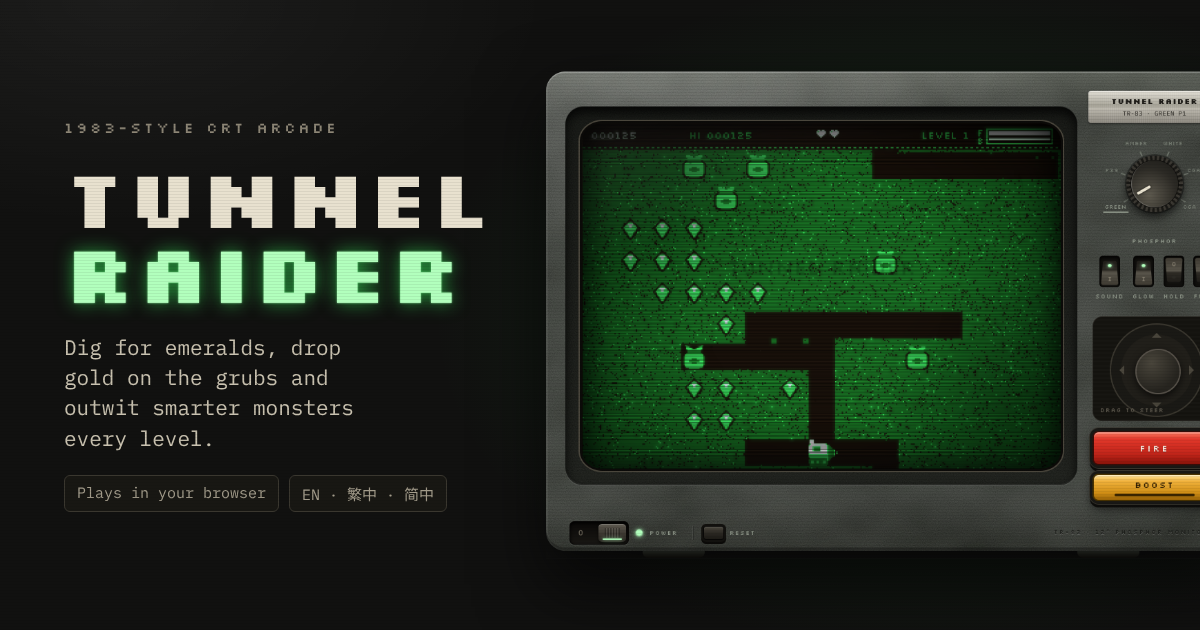
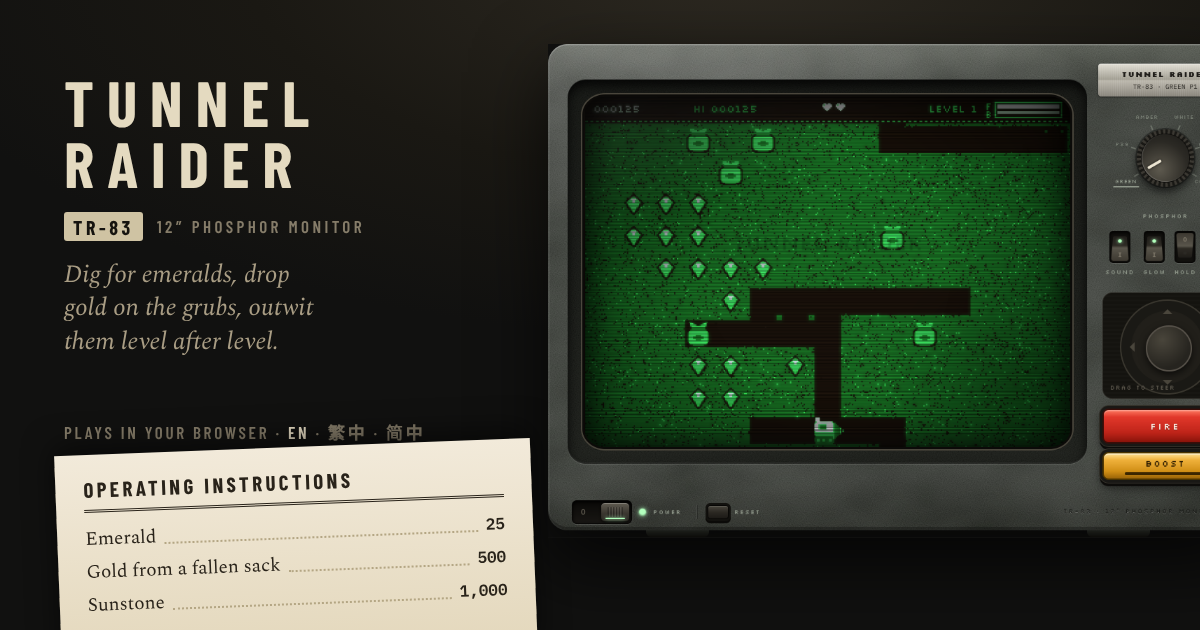
style: restyle everything outside the CRT as a 1983 software manual
- Header: a printed maker's label (TUNNEL RAIDER, TR-83 tag) with an
  italic serif tagline, instead of the glowing pixel title
- How to play: a paper pull-tab under the set unfolds a printed
  "Operating Instructions" leaflet with numbered sections, dot-leader
  scoring and controls, beige keycaps and a source-code footer
- Language switch and GitHub link as printed text links
- Desk lit by a soft lamp glow
- New share image in the same style, also shown at the top of the README
- Fix: the English rockjaw line said "seam" instead of "level"

Claude-Session: https://claude.ai/code/session_01KVgNwscUD74ty6NcmSq3KY

diff --git a/index.html b/index.html
@@ -44,7 +44,7 @@ img{max-width:100%}
 <title>Tunnel Raider</title>
 <link rel="preconnect" href="https://fonts.googleapis.com">
 <link rel="preconnect" href="https://fonts.gstatic.com" crossorigin>
-<link rel="stylesheet" href="https://fonts.googleapis.com/css2?family=Silkscreen:wght@400;700&family=Noto+Sans+TC:wght@400;700&family=Noto+Sans+SC:wght@400;700&family=IBM+Plex+Mono:wght@400;500;600&display=swap">
+<link rel="stylesheet" href="https://fonts.googleapis.com/css2?family=Silkscreen:wght@400;700&family=Noto+Sans+TC:wght@400;700&family=Noto+Sans+SC:wght@400;700&family=IBM+Plex+Mono:wght@400;500;600&family=Barlow+Condensed:wght@600;700&family=Spectral:ital,wght@0,400;0,600;1,400&display=swap">
 <style>
 /* Layout: a 1983 colour monitor on a dark desk — bezel-framed CRT, a row of front-panel switches, reference cards beneath. Single dark look by design; --phos/--phos2 retint to the chosen display. */
 :root{
@@ -60,21 +60,28 @@ img{max-width:100%}
   --muted:#8d8676;       /* secondary text */
   --phos:#55ffff;        /* active phosphor colour (set by display mode) */
   --phos2:#ff55ff;       /* second phosphor colour */
+  --paper:#ede4cd;       /* manual paper */
+  --paper-ink:#29231a;   /* manual print */
+  --paper-mute:#6f6553;  /* secondary print */
+  --paper-rule:#b4a684;  /* rules and dot leaders */
+  --print:"Barlow Condensed", "Noto Sans TC", "Noto Sans SC", "Arial Narrow", sans-serif;
+  --book:"Spectral", "Noto Sans TC", "Noto Sans SC", Georgia, serif;
   --display:"Silkscreen", "Noto Sans TC", "Noto Sans SC", "Courier New", monospace;
   --body:"IBM Plex Mono", "Noto Sans TC", "Noto Sans SC", ui-monospace, "SFMono-Regular", Menlo, monospace;
   color-scheme:dark;
 }
 html,body{background:var(--desk);color:var(--label)}
+body{background:radial-gradient(110% 60% at 50% -8%, #2b2720 0, #191712 42%, var(--desk) 78%) var(--desk) no-repeat}
 /* iOS: no double-tap zoom (pinch zoom still works), no text selection, callouts or grey tap flashes on the controls */
 html,body,.tv,button,.manual-bar,.netbadge{touch-action:manipulation}
 .tv,.manual-bar,.netbadge{-webkit-user-select:none;user-select:none;-webkit-touch-callout:none}
 button,.stickzone,.dial,.tv{-webkit-tap-highlight-color:transparent}
 body{font-family:var(--body);font-size:14px;line-height:1.55}
 .wrap{max-width:1000px;margin:0 auto;padding-left:max(16px, env(safe-area-inset-left, 0px));padding-right:max(16px, env(safe-area-inset-right, 0px));padding-block:20px 40px;display:grid;gap:18px}
-header{display:flex;flex-wrap:wrap;align-items:flex-end;justify-content:space-between;gap:8px 24px}
-h1{font-family:var(--display);font-weight:700;font-size:clamp(26px,5vw,40px);line-height:1;margin:0;letter-spacing:.03em;color:var(--label);text-wrap:balance}
-h1 span{color:var(--phos);text-shadow:0 0 12px color-mix(in srgb, var(--phos) 60%, transparent)}
-.tag{margin:0;color:var(--muted);font-size:13px;max-width:46ch}
+header{display:flex;flex-wrap:wrap;align-items:baseline;gap:6px 14px;padding-inline:2px}
+h1{font-family:var(--print);font-weight:700;font-size:21px;line-height:1;margin:0;letter-spacing:.34em;text-transform:uppercase;color:#ddd3ba}
+.mk-model{font-family:var(--print);font-weight:700;font-size:12px;letter-spacing:.18em;color:#16140f;background:#cfc3a3;padding:2px 6px 1px;border-radius:2px;align-self:center}
+.tag{margin:0 0 0 auto;font-family:var(--book);font-style:italic;font-size:15px;color:#978c76;max-width:50ch}
 
 /* the monitor */
 .monitor{background:linear-gradient(180deg,var(--plastic-hi),var(--plastic) 12%,var(--plastic) 88%,var(--plastic-lo));border-radius:22px;padding:clamp(12px,3vw,30px) clamp(12px,3vw,30px) 14px;box-shadow:0 18px 40px rgba(0,0,0,.6), inset 0 1px 0 rgba(255,255,255,.08)}
@@ -296,7 +303,7 @@ button:focus-visible{outline:2px solid var(--phos);outline-offset:2px}
 [data-full][data-layout="phone-portrait"] .tv-face,[data-full][data-layout="tablet-portrait"] .tv-face{grid-template-columns:minmax(0,1fr);grid-template-areas:"screen" "pad"}
 [data-full][data-layout="phone-portrait"] .tube-surround,[data-full][data-layout="tablet-portrait"] .tube-surround{width:100%}
 [data-full][data-layout="phone-portrait"] .pad,[data-full][data-layout="tablet-portrait"] .pad{display:flex;flex-direction:row;width:100%}
-.rotate-hint{display:none;margin:0;text-align:center;color:var(--muted);font-size:12px}
+.rotate-hint{display:none;order:5;margin:0;text-align:center;font-family:var(--book);font-style:italic;font-size:14px;color:#8d8676}
 
 /* ---- layouts chosen by the screen detector (data-layout on <html>) ---- */
 [data-layout="phone-portrait"] .tag{display:none}
@@ -430,10 +437,58 @@ table{border-collapse:collapse;width:100%;font-variant-numeric:tabular-nums}
 td{padding:4px 0;border-bottom:1px dashed #2b2924;vertical-align:top}
 td:last-child{text-align:right;color:var(--phos);white-space:nowrap;padding-left:12px}
 tr:last-child td{border-bottom:0}
-kbd{font-family:var(--body);font-size:12px;background:var(--desk);border:1px solid #2b2924;border-bottom-width:2px;border-radius:3px;padding:0 5px;color:var(--label)}
+kbd{font-family:var(--body);font-size:11px;font-weight:600;line-height:1.5;color:#2a241b;background:linear-gradient(180deg,#fbf7ec,#ddd2b7);border:1px solid #978a71;border-bottom-width:3px;border-radius:4px;padding:0 6px;box-shadow:0 1px 1px rgba(0,0,0,.18);white-space:nowrap}
 .keys td:last-child{color:var(--label)}
 .note{color:var(--muted);font-size:12px;margin:10px 0 0}
 @media (prefers-reduced-motion:reduce){.blink{animation:none}}
+
+/* ---------- outside the set: a 1983 software manual ---------- */
+.manual-bar{order:3;display:flex;flex-wrap:wrap;align-items:flex-start;justify-content:space-between;gap:12px 18px;margin-top:-18px;padding-inline:clamp(10px,3vw,28px)}
+.manual-btn{position:relative;z-index:1;display:inline-flex;align-items:center;gap:9px;cursor:pointer;border:0;border-radius:0 0 7px 7px;padding:14px 18px 10px;
+  font-family:var(--print);font-weight:700;font-size:14px;letter-spacing:.2em;text-transform:uppercase;color:var(--paper-ink);
+  background:var(--grain),linear-gradient(180deg,#d9cfb5,var(--paper) 30%);background-size:160px 160px,auto;background-blend-mode:multiply,normal;
+  box-shadow:0 8px 16px rgba(0,0,0,.45),inset 0 6px 6px -4px rgba(0,0,0,.35)}
+.manual-btn:hover{background-color:#f4ecd7}
+.manual-btn .chev{color:var(--paper-mute);font-size:12px;transition:transform .2s}
+.manual-btn[aria-expanded="true"] .chev{transform:rotate(180deg)}
+.manual-btn:focus-visible,.lang button:focus-visible,.gh-link:focus-visible,.man-foot a:focus-visible{outline:2px solid var(--phos);outline-offset:3px}
+.manual-bar .bar-right{display:flex;flex-wrap:wrap;align-items:center;gap:6px 22px;padding-top:12px}
+.lang{display:flex;align-items:center;border:0;border-radius:0;overflow:visible;background:none}
+.lang button,.lang button+button{font-family:var(--print);font-weight:600;font-size:15px;letter-spacing:.14em;color:#857c69;background:none;border:0;padding:4px 2px;cursor:pointer}
+.lang button+button::before{content:"·";color:#4f4a40;margin:0 10px 0 8px}
+.lang button[aria-pressed="true"]{background:none;color:#e6dcc3;text-decoration:underline;text-decoration-color:var(--phos);text-decoration-thickness:2px;text-underline-offset:6px}
+.lang button:hover{color:#cfc5ad}
+.gh-link{display:inline-flex;align-items:center;gap:7px;font-family:var(--print);font-weight:600;font-size:15px;letter-spacing:.14em;text-transform:uppercase;color:#857c69;text-decoration:none;background:none;border:0;padding:4px 0}
+.gh-link:hover{color:#e6dcc3}
+.gh-link svg{width:15px;height:15px}
+.install-btn{font-family:var(--print)!important;font-weight:600!important;font-size:15px!important;letter-spacing:.14em!important;text-transform:uppercase;color:var(--phos)!important;background:none!important;border:0!important;padding:4px 0!important}
+
+.manual{order:4;display:block;position:relative;margin:-4px clamp(4px,1.5vw,14px) 0;padding:30px clamp(18px,4.5vw,48px) 22px;color:var(--paper-ink);
+  background:var(--grain),linear-gradient(180deg,#f2eada,#e6dbc0);background-size:160px 160px,auto;background-blend-mode:multiply,normal;
+  border-radius:1px;box-shadow:0 22px 44px rgba(0,0,0,.55),0 2px 0 #c9bc9b;transform:rotate(-.35deg)}
+.man-head{display:flex;flex-wrap:wrap;align-items:baseline;justify-content:space-between;gap:4px 18px;padding-bottom:10px;margin-bottom:20px;border-bottom:3px double var(--paper-ink)}
+.manual h2{margin:0;font-family:var(--print);font-weight:700;font-size:clamp(22px,3.6vw,32px);letter-spacing:.14em;text-transform:uppercase;line-height:1.05}
+.man-model{font-family:var(--print);font-weight:600;font-size:13px;letter-spacing:.18em;text-transform:uppercase;color:var(--paper-mute)}
+.man-cols{columns:2 320px;column-gap:44px;column-rule:1px solid color-mix(in srgb, var(--paper-rule) 60%, transparent)}
+.man-sec{break-inside:avoid;margin:0 0 22px}
+.man-sec h3{display:flex;align-items:center;gap:10px;margin:0 0 9px;font-family:var(--print);font-weight:700;font-size:16px;letter-spacing:.16em;text-transform:uppercase;color:var(--paper-ink)}
+.man-sec .num{flex:none;display:grid;place-items:center;width:21px;height:21px;border-radius:50%;background:var(--paper-ink);color:var(--paper);font-size:12px;letter-spacing:0}
+.man-sec p{margin:0;font-family:var(--book);font-size:15.5px;line-height:1.58;color:#352e23;hyphens:auto;text-wrap:pretty}
+.man-sec p i{font-style:italic}
+.leaders{list-style:none;margin:0;padding:0;font-family:var(--book);font-size:15.5px;color:#352e23}
+.leaders li{display:flex;align-items:baseline;gap:6px;padding:3px 0}
+.leaders li > span:first-child{min-width:0;flex:0 1 auto}
+.leaders i{flex:1 1 18px;min-width:18px;align-self:flex-end;margin-bottom:6px;border-bottom:2px dotted var(--paper-rule)}
+.leaders b{flex:none;font-family:var(--body);font-weight:600;font-size:13px;font-variant-numeric:tabular-nums;white-space:nowrap;color:var(--paper-ink)}
+.leaders .kv{flex:0 1 auto;max-width:62%;text-align:right;font-size:13.5px;line-height:1.9}
+.man-foot{margin-top:4px;padding-top:12px;border-top:1px solid var(--paper-rule)}
+.man-foot a{display:inline-flex;flex-wrap:wrap;align-items:center;gap:6px 9px;font-family:var(--print);font-weight:700;font-size:14px;letter-spacing:.16em;text-transform:uppercase;color:var(--paper-ink);text-decoration:none}
+.man-foot a svg{width:16px;height:16px}
+.man-foot .url{font-family:var(--body);font-weight:500;font-size:12.5px;letter-spacing:0;text-transform:none;color:var(--paper-mute)}
+.man-foot a:hover .url{text-decoration:underline}
+[data-layout="phone-portrait"] .manual-bar{margin-top:0}
+[data-layout="phone-portrait"] .manual{transform:none}
+@media (prefers-reduced-motion:reduce){.manual-btn .chev{transition:none}}
 </style>
 <script>
 /* Screen detector. Picks a layout from the real viewport and input type, so it fits any phone or tablet
@@ -461,7 +516,8 @@ kbd{font-family:var(--body);font-size:12px;background:var(--desk);border:1px sol
 
 <div class="wrap">
   <header>
-    <h1>Tunnel <span>Raider</span></h1>
+    <h1>Tunnel Raider</h1>
+    <span class="mk-model">TR-83</span>
     <p class="tag" data-i18n="tag">Tunnel through the mine, scoop up emeralds and drop sacks of gold on the grubs.</p>
   </header>
 
@@ -515,47 +571,56 @@ kbd{font-family:var(--body);font-size:12px;background:var(--desk);border:1px sol
 
 
   <div class="manual-bar">
-    <button type="button" class="manual-btn" id="manualBtn" aria-expanded="false" aria-controls="manual"><span class="chev" aria-hidden="true">▸</span><span id="manualLbl">How to play</span></button>
-    <div class="bar-right">
-      <a class="gh-link" href="https://github.com/wiiiimm/tunnel-raider" target="_blank" rel="noopener" aria-label="Tunnel Raider on GitHub (opens in a new tab)"><svg viewBox="0 0 16 16" width="16" height="16" aria-hidden="true"><path fill="currentColor" d="M8 0C3.58 0 0 3.58 0 8c0 3.54 2.29 6.53 5.47 7.59.4.07.55-.17.55-.38 0-.19-.01-.82-.01-1.49-2.01.37-2.53-.49-2.69-.94-.09-.23-.48-.94-.82-1.13-.28-.15-.68-.52-.01-.53.63-.01 1.08.58 1.23.82.72 1.21 1.87.87 2.33.66.07-.52.28-.87.51-1.07-1.78-.2-3.64-.89-3.64-3.95 0-.87.31-1.59.82-2.15-.08-.2-.36-1.02.08-2.12 0 0 .67-.21 2.2.82.64-.18 1.32-.27 2-.27.68 0 1.36.09 2 .27 1.53-1.04 2.2-.82 2.2-.82.44 1.1.16 1.92.08 2.12.51.56.82 1.27.82 2.15 0 3.07-1.87 3.75-3.65 3.95.29.25.54.73.54 1.48 0 1.07-.01 1.93-.01 2.2 0 .21.15.46.55.38A8.013 8.013 0 0016 8c0-4.42-3.58-8-8-8z"/></svg><span>GitHub</span></a>
+    <button type="button" class="manual-btn" id="manualBtn" aria-expanded="false" aria-controls="manual"><span class="chev" aria-hidden="true">▾</span><span id="manualLbl">Instructions</span></button>
+    <nav class="bar-right" aria-label="Language and source code">
       <div class="lang" role="group" aria-label="Language" id="langSeg">
         <button type="button" data-lang="en" aria-pressed="true">EN</button>
         <button type="button" data-lang="zh-hant" aria-pressed="false" lang="zh-Hant">繁中</button>
         <button type="button" data-lang="zh-hans" aria-pressed="false" lang="zh-Hans">简中</button>
       </div>
-    </div>
+      <a class="gh-link" href="https://github.com/wiiiimm/tunnel-raider" target="_blank" rel="noopener" aria-label="Tunnel Raider on GitHub (opens in a new tab)"><svg viewBox="0 0 16 16" width="16" height="16" aria-hidden="true"><path fill="currentColor" d="M8 0C3.58 0 0 3.58 0 8c0 3.54 2.29 6.53 5.47 7.59.4.07.55-.17.55-.38 0-.19-.01-.82-.01-1.49-2.01.37-2.53-.49-2.69-.94-.09-.23-.48-.94-.82-1.13-.28-.15-.68-.52-.01-.53.63-.01 1.08.58 1.23.82.72 1.21 1.87.87 2.33.66.07-.52.28-.87.51-1.07-1.78-.2-3.64-.89-3.64-3.95 0-.87.31-1.59.82-2.15-.08-.2-.36-1.02.08-2.12 0 0 .67-.21 2.2.82.64-.18 1.32-.27 2-.27.68 0 1.36.09 2 .27 1.53-1.04 2.2-.82 2.2-.82.44 1.1.16 1.92.08 2.12.51.56.82 1.27.82 2.15 0 3.07-1.87 3.75-3.65 3.95.29.25.54.73.54 1.48 0 1.07-.01 1.93-.01 2.2 0 .21.15.46.55.38A8.013 8.013 0 0016 8c0-4.42-3.58-8-8-8z"/></svg><span>GitHub</span></a>
+    </nav>
   </div>
-  <div class="below" id="manual" hidden>
-    <div class="card">
-      <h3 data-i18n="howH">HOW IT PLAYS</h3>
-      <table>
-        <tr><td data-i18n="r1"></td><td>25</td></tr>
-        <tr><td data-i18n="r2"></td><td>+250</td></tr>
-        <tr><td data-i18n="r3"></td><td>500</td></tr>
-        <tr><td data-i18n="r4"></td><td>250</td></tr>
-        <tr><td data-i18n="r5"></td><td>500</td></tr>
-        <tr><td data-i18n="r6"></td><td>1,000</td></tr>
-        <tr><td data-i18n="r7"></td><td>200 · 400 · 800 · 1,600</td></tr>
-        <tr><td data-i18n="r8"></td><td data-i18n="r8v"></td></tr>
-      </table>
-      <p class="note" data-i18n="howNote"></p>
+  <section class="below manual" id="manual" hidden aria-labelledby="manH">
+    <div class="man-head">
+      <h2 id="manH" data-i18n="manTitle">Operating Instructions</h2>
+      <span class="man-model" data-i18n="model">Model TR-83 · 12″ phosphor monitor</span>
     </div>
-    <div class="card">
-      <h3 data-i18n="ctlH">CONTROLS</h3>
-      <table class="keys">
-        <tr><td data-i18n="k1"></td><td data-i18n="k1v"></td></tr>
-        <tr><td data-i18n="k2"></td><td data-i18n="k2v"></td></tr>
-        <tr><td data-i18n="k3"></td><td data-i18n="k3v"></td></tr>
-        <tr><td data-i18n="k4"></td><td data-i18n="k4v"></td></tr>
-        <tr><td data-i18n="k5"></td><td><kbd>M</kbd></td></tr>
-        <tr><td data-i18n="k6"></td><td data-i18n="k6v"></td></tr>
-        <tr><td data-i18n="k7"></td><td><kbd>Enter</kbd></td></tr>
-        <tr><td data-i18n="k9"></td><td data-i18n="k9v"></td></tr>
-        <tr><td data-i18n="k8"></td><td data-i18n="k8v"></td></tr>
-      </table>
-      <p class="note" data-i18n="ctlNote"></p>
+    <div class="man-cols">
+      <section class="man-sec"><h3><span class="num">1</span><span data-i18n="howH">How it plays</span></h3>
+        <p data-i18n="howNote"></p>
+      </section>
+      <section class="man-sec"><h3><span class="num">2</span><span data-i18n="secScore">Scoring</span></h3>
+        <ul class="leaders">
+          <li><span data-i18n="r1"></span><i aria-hidden="true"></i><b>25</b></li>
+          <li><span data-i18n="r2"></span><i aria-hidden="true"></i><b>+250</b></li>
+          <li><span data-i18n="r3"></span><i aria-hidden="true"></i><b>500</b></li>
+          <li><span data-i18n="r4"></span><i aria-hidden="true"></i><b>250</b></li>
+          <li><span data-i18n="r5"></span><i aria-hidden="true"></i><b>500</b></li>
+          <li><span data-i18n="r6"></span><i aria-hidden="true"></i><b>1,000</b></li>
+          <li><span data-i18n="r7"></span><i aria-hidden="true"></i><b>200 · 400 · 800 · 1,600</b></li>
+          <li><span data-i18n="r8"></span><i aria-hidden="true"></i><b data-i18n="r8v"></b></li>
+        </ul>
+      </section>
+      <section class="man-sec"><h3><span class="num">3</span><span data-i18n="ctlH">Controls</span></h3>
+        <ul class="leaders keys">
+          <li><span data-i18n="k1"></span><i aria-hidden="true"></i><span class="kv" data-i18n="k1v"></span></li>
+          <li><span data-i18n="k2"></span><i aria-hidden="true"></i><span class="kv" data-i18n="k2v"></span></li>
+          <li><span data-i18n="k9"></span><i aria-hidden="true"></i><span class="kv" data-i18n="k9v"></span></li>
+          <li><span data-i18n="k3"></span><i aria-hidden="true"></i><span class="kv" data-i18n="k3v"></span></li>
+          <li><span data-i18n="k4"></span><i aria-hidden="true"></i><span class="kv" data-i18n="k4v"></span></li>
+          <li><span data-i18n="k5"></span><i aria-hidden="true"></i><span class="kv"><kbd>M</kbd></span></li>
+          <li><span data-i18n="k6"></span><i aria-hidden="true"></i><span class="kv" data-i18n="k6v"></span></li>
+          <li><span data-i18n="k7"></span><i aria-hidden="true"></i><span class="kv"><kbd>Enter</kbd></span></li>
+          <li><span data-i18n="k8"></span><i aria-hidden="true"></i><span class="kv" data-i18n="k8v"></span></li>
+        </ul>
+      </section>
+      <section class="man-sec"><h3><span class="num">4</span><span data-i18n="secMonitor">The monitor</span></h3>
+        <p data-i18n="ctlNote"></p>
+      </section>
     </div>
-  </div>
+    <footer class="man-foot"><a href="https://github.com/wiiiimm/tunnel-raider" target="_blank" rel="noopener"><svg viewBox="0 0 16 16" width="16" height="16" aria-hidden="true"><path fill="currentColor" d="M8 0C3.58 0 0 3.58 0 8c0 3.54 2.29 6.53 5.47 7.59.4.07.55-.17.55-.38 0-.19-.01-.82-.01-1.49-2.01.37-2.53-.49-2.69-.94-.09-.23-.48-.94-.82-1.13-.28-.15-.68-.52-.01-.53.63-.01 1.08.58 1.23.82.72 1.21 1.87.87 2.33.66.07-.52.28-.87.51-1.07-1.78-.2-3.64-.89-3.64-3.95 0-.87.31-1.59.82-2.15-.08-.2-.36-1.02.08-2.12 0 0 .67-.21 2.2.82.64-.18 1.32-.27 2-.27.68 0 1.36.09 2 .27 1.53-1.04 2.2-.82 2.2-.82.44 1.1.16 1.92.08 2.12.51.56.82 1.27.82 2.15 0 3.07-1.87 3.75-3.65 3.95.29.25.54.73.54 1.48 0 1.07-.01 1.93-.01 2.2 0 .21.15.46.55.38A8.013 8.013 0 0016 8c0-4.42-3.58-8-8-8z"/></svg><span data-i18n="src">Source code</span><span class="url">github.com/wiiiimm/tunnel-raider</span></a></footer>
+  </section>
   <div class="netbadge" id="netToast" role="status" aria-live="polite" hidden><span class="nled" aria-hidden="true"></span><span class="nmsg" id="netMsg"></span><button type="button" class="nbtn" id="netBtn" hidden></button></div>
   <button class="exitfull" id="exitFull" type="button" aria-label="Exit full screen">✕</button>
 </div>
@@ -961,10 +1026,10 @@ const I18N = {
   en: {
     tag: 'Tunnel through the mine, scoop up emeralds and drop sacks of gold on the grubs.',
     rotate: 'Turn your phone sideways for the full-screen console layout.',
-    stick: 'DRAG TO STEER', spark: 'FIRE', boost: 'BOOST', k9: 'Speed boost', k9v: `${kb('Shift')} or ${kb('B')}`, manual: 'How to play', manualHide: 'Hide how to play', exitFull: 'Exit full screen',
-    howH: 'HOW IT PLAYS', ctlH: 'CONTROLS',
+    stick: 'DRAG TO STEER', spark: 'FIRE', manTitle: 'Operating Instructions', model: 'Model TR-83 · 12″ phosphor monitor', secScore: 'Scoring', secMonitor: 'The monitor', src: 'Source code', boost: 'BOOST', k9: 'Speed boost', k9v: `${kb('Shift')} or ${kb('B')}`, manual: 'Instructions', manualHide: 'Fold away', exitFull: 'Exit full screen',
+    howH: 'How it plays', ctlH: 'Controls',
     r1: 'Emerald', r2: 'Eight emeralds in quick succession', r3: 'Gold from a sack that fell two or more cells',
-    r4: 'Grub crushed by a sack or hit by a spark', r5: 'Rockjaw (from seam 4): two hits from sparks or sacks, three from seam 7',
+    r4: 'Grub crushed by a sack or hit by a spark', r5: 'Rockjaw (from level 4): two hits from sparks or sacks, three from level 7',
     r6: 'Sunstone (appears once every grub has arrived)', r7: 'Grubs rammed while the sunstone glows', r8: 'Spare drill cart', r8v: 'every 20,000',
     howNote: 'Grubs keep to tunnels. Horned borers chew straight through the earth towards you. Each level the grubs get cannier: they wander less, turn into borers sooner and stay borers longer. From level 3, borers shove sacks sideways and will line one up over your cart if they can. From level 4, banded rockjaws arrive that always dig their own tunnels; the pips over their heads show how many more hits they can take. A falling sack crushes you too, so never linger beneath one. Everything starts slow: the grubs quicken every level and so does your cart, but in an open tunnel they never outrun you. BOOST gives your cart a short burst of speed; its meter refills in about seven seconds.',
     k1: 'Move and dig', k1v: `${kb('←')} ${kb('↑')} ${kb('→')} ${kb('↓')} or ${kb('WASD')}`,
@@ -981,7 +1046,7 @@ const I18N = {
   'zh-hant': {
     tag: '在礦坑裏挖隧道，收集綠寶石，再把金袋推下去壓扁蟲子。',
     rotate: '把手機橫放，即可使用全螢幕遊戲機版面。',
-    stick: '拖動操控', spark: '發射', boost: '加速', k9: '加速衝刺', k9v: `${kb('Shift')} 或 ${kb('B')}`, manual: '玩法說明', manualHide: '收起玩法說明', exitFull: '離開全螢幕',
+    stick: '拖動操控', spark: '發射', manTitle: '操作說明書', model: '型號 TR-83 · 12 吋螢光顯示器', secScore: '計分', secMonitor: '關於顯示器', src: '原始碼', boost: '加速', k9: '加速衝刺', k9v: `${kb('Shift')} 或 ${kb('B')}`, manual: '操作說明', manualHide: '收起說明', exitFull: '離開全螢幕',
     howH: '玩法', ctlH: '操作',
     r1: '綠寶石', r2: '快速連續收集八顆綠寶石', r3: '金袋跌落兩格或以上後散出的金子',
     r4: '被金袋壓扁或被火花擊中的蟲子', r5: '岩顎蟲（第 4 關起）：要擊中兩次，第 7 關起要三次',
@@ -1001,7 +1066,7 @@ const I18N = {
   'zh-hans': {
     tag: '在矿坑里挖隧道，收集绿宝石，再把金袋推下去压扁虫子。',
     rotate: '把手机横放，即可使用全屏游戏机版面。',
-    stick: '拖动操控', spark: '发射', boost: '加速', k9: '加速冲刺', k9v: `${kb('Shift')} 或 ${kb('B')}`, manual: '玩法说明', manualHide: '收起玩法说明', exitFull: '离开全屏',
+    stick: '拖动操控', spark: '发射', manTitle: '操作说明书', model: '型号 TR-83 · 12 英寸荧光显示器', secScore: '计分', secMonitor: '关于显示器', src: '源代码', boost: '加速', k9: '加速冲刺', k9v: `${kb('Shift')} 或 ${kb('B')}`, manual: '操作说明', manualHide: '收起说明', exitFull: '离开全屏',
     howH: '玩法', ctlH: '操作',
     r1: '绿宝石', r2: '快速连续收集八颗绿宝石', r3: '金袋跌落两格或以上后散出的金子',
     r4: '被金袋压扁或被火花击中的虫子', r5: '岩颚虫（第 4 关起）：要击中两次，第 7 关起要三次',

diff --git a/sw.js b/sw.js
@@ -2,7 +2,7 @@
    The game shell is cached on install, so it plays fully offline. Every visit, every return to the
    network and every 30 minutes the page asks for this file again; when its version changes the new
    shell downloads in the background and the page offers a RESTART instead of interrupting a game. */
-const VERSION = 'e555962f251f';
+const VERSION = '0557d3edd1cf';
 const SHELL = `tr-shell-${VERSION}`;
 const RUNTIME = 'tr-runtime-v1';   // fonts and anything else fetched later
 const ASSETS = [
